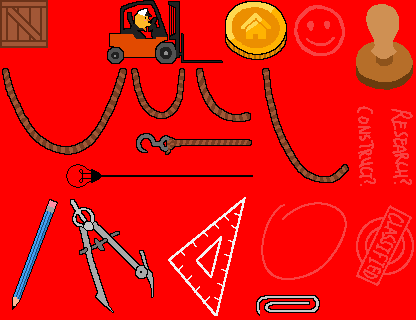
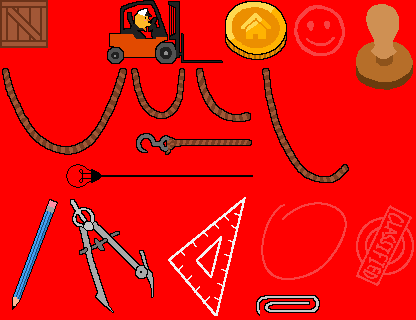
refined handwritten font and updated the research/construct/research progress buttons to use this font instead of the pre-drawn sprite

Changed region(s): [[0.8438, 0.3125, 0.9062, 0.5938], [0.9375, 0.3438, 1.0, 0.5938]]

diff --git a/src/menus/port_menu.py b/src/menus/port_menu.py
@@ -276,6 +276,10 @@ class PortMenu:
             self.sticky_note_page.copy(),
             confirm_shipyard_sticky_note,
             active=False,
+            text_styling={
+                "text_font": "handwritten",
+                "text_color": Color.START_SORTIE_BUTTON,
+            }
         )
 
         def confirm_gear_lab_sticky_note():
@@ -296,7 +300,11 @@ class PortMenu:
             self.sticky_note_page.copy(),
             confirm_gear_lab_sticky_note,
             active=False,
-            background_styling={"background_img": DataFiles.sprites["props"]["construct_text"]}
+            text_styling={
+                "text": "construct?",
+                "text_font": "handwritten",
+                "text_color": Color.START_SORTIE_BUTTON,
+            }
         )
 
         def confirm_decoration_signature():
@@ -583,10 +591,10 @@ class PortMenu:
         if self.current_overlay == self.SHIPYARD:
             if self.can_construct_selected_shipgirl():
                 self.shipyard_sticky_note_button.active = True
-                self.shipyard_sticky_note_button.background_img = DataFiles.sprites["props"]["construct_text"]
+                self.shipyard_sticky_note_button.text = "construct?"
             elif self.can_start_selected_shipgirl_research():
                 self.shipyard_sticky_note_button.active = True
-                self.shipyard_sticky_note_button.background_img = DataFiles.sprites["props"]["research_text"]
+                self.shipyard_sticky_note_button.text = "research?"
             elif self.has_selected_shipgirl_research_project():
                 self.shipyard_sticky_note_button.active = True
                 research_exp = DataFiles.save_file["specialized_wisdom_cubes"].get(self.overlay_selected_entity, 0)
@@ -599,7 +607,7 @@ class PortMenu:
                 )
                 exp_req = max(1, Stats.exp_to_level(avg_shipgirl_level))
                 research_percentage = int(100 * min(1, research_exp / exp_req))
-                self.shipyard_sticky_note_button.background_img = DataFiles.sprites["props"]["research_text"] # TODO what do?
+                self.shipyard_sticky_note_button.text = f"research progress {research_percentage}%"
         elif self.current_overlay == self.GEAR_LAB:
             self.gear_lab_sticky_note_button.active = self.can_craft_selected_equipment()
         elif self.current_overlay == self.DECORATION_STORE:

diff --git a/engine/button.py b/engine/button.py
@@ -15,7 +15,8 @@ class Button:
         
         self.text = text_styling.get("text")
         self.text_align = text_styling.get("text_align", (1/2, 1/2))
-        self.text_color = text_styling.get("text_color", (0, 0, 0))
+        self.text_font = text_styling.get("text_font", "big_pixel")
+        self.text_color = text_styling.get("text_color", (255, 255, 255))
         self.text_size = text_styling.get("text_size", 1)
         self.text_margins = text_styling.get("text_margins", 8)
 
@@ -75,7 +76,7 @@ class Button:
                 self.rect.left + self.rect.width * self.text_align[0],
                 self.rect.top + self.rect.height * self.text_align[1]
             )
-            font_registry["big_pixel"].render(
+            font_registry[self.text_font].render(
                 surface,
                 self.text,
                 text_pos,
